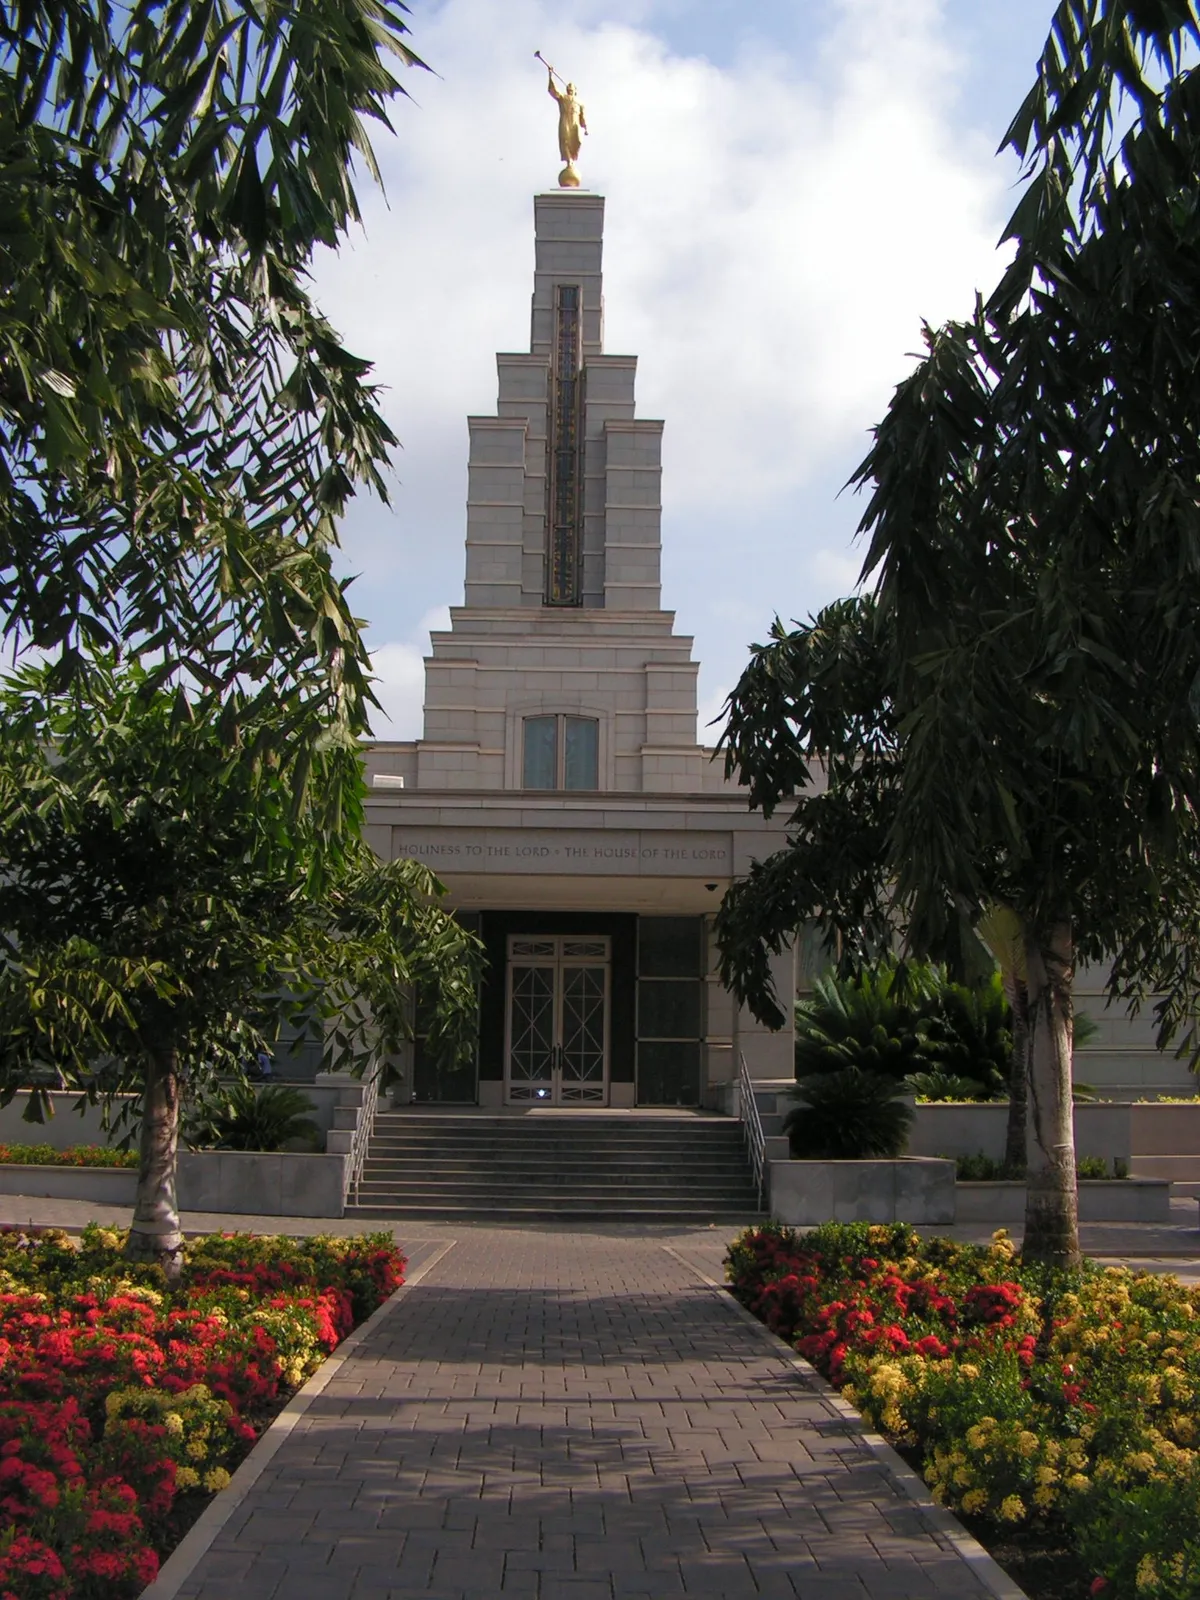
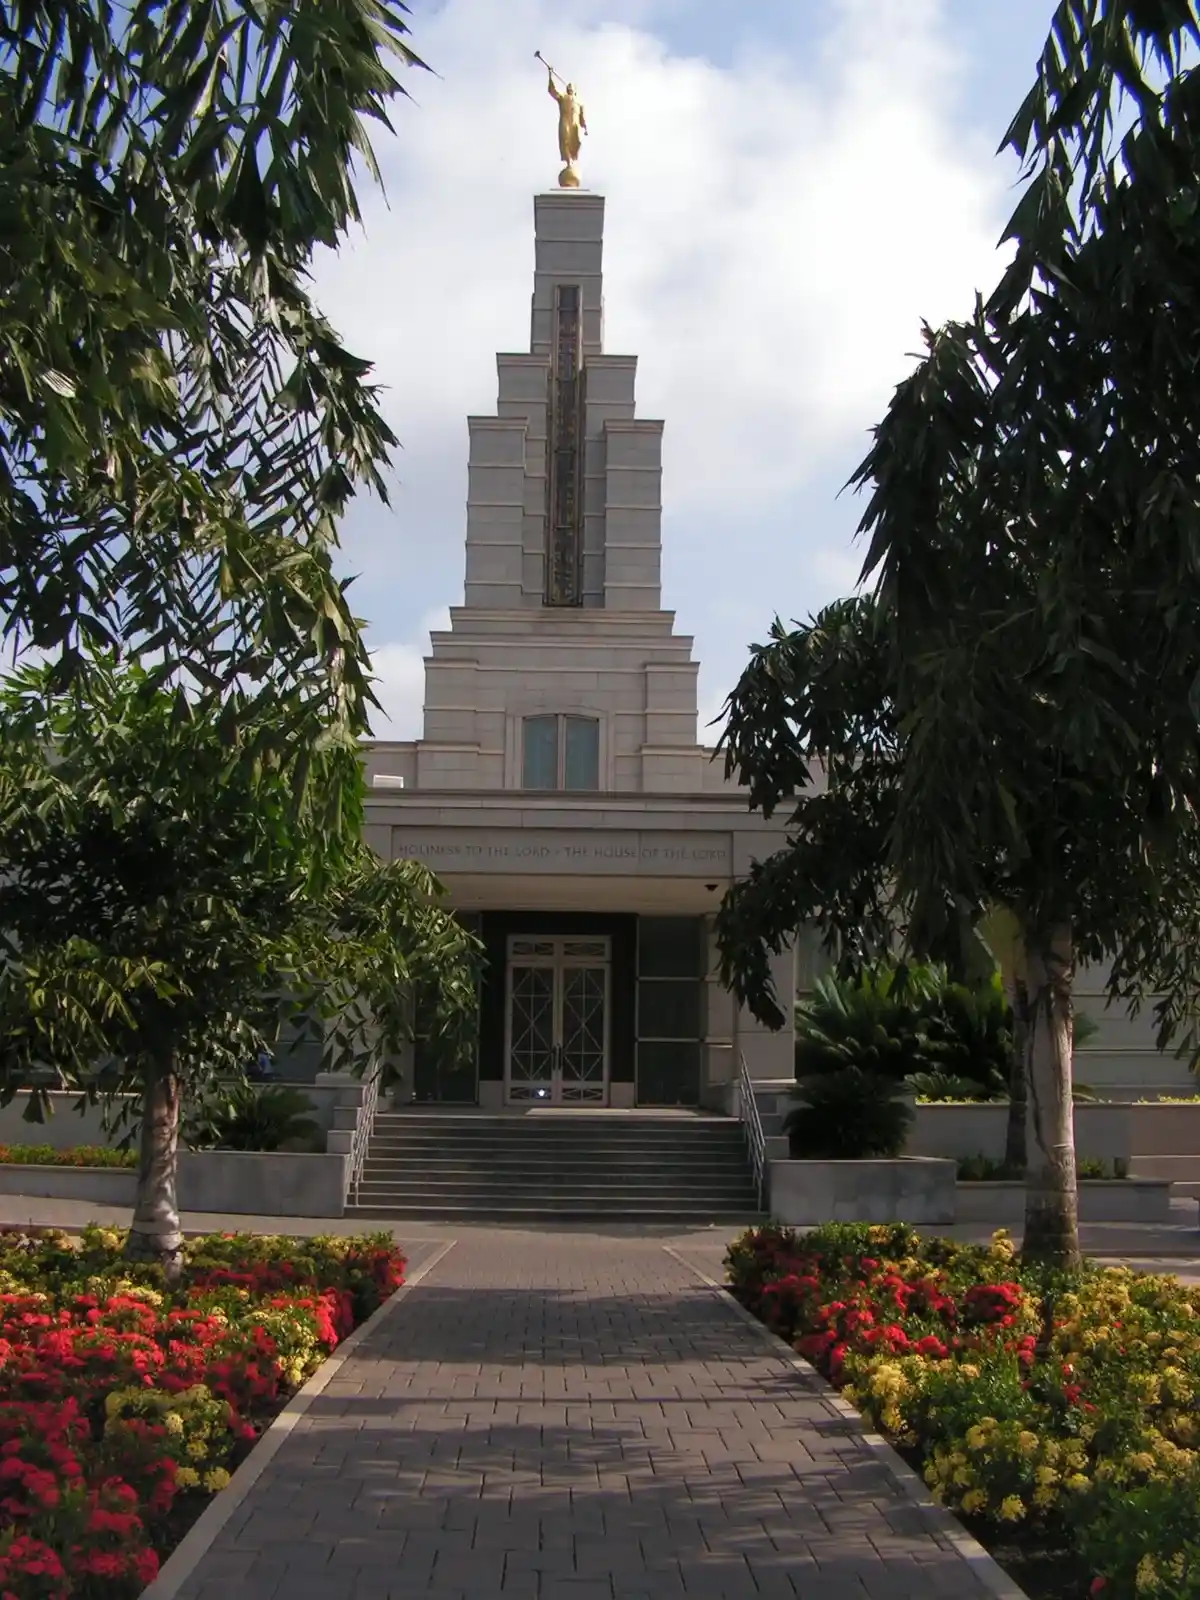
updated

diff --git a/temples.html b/temples.html
@@ -43,15 +43,15 @@
                 <figcaption>A picture of the Nigeria Aba Temple</figcaption>
             </figure>
             <figure class="temple-card">
-                <img src="images/abidjan_ivory_coast_temple_exterior_4.webp" alt="Ivory Coast  Abidjan Temple">
+                <img src="images/abidjan_4.webp" alt="Ivory Coast  Abidjan Temple">
                 <figcaption>A picture of the Ivory Coast  Abidjan Temple</figcaption>
             </figure>
             <figure class="temple-card">
-                <img src="images/abidjan_ivory_coast_temple_interior_celestial_2.webp" alt="Ivory Coast  Abidjan Temple">
+                <img src="images/abidjan_2.webp" alt="Ivory Coast  Abidjan Temple">
                 <figcaption>A picture of the Ivory Coast  Abidjan Temple</figcaption>
             </figure>
             <figure class="temple-card">
-                <img src="images/abidjan_ivory_coast_temple_interior_grand_3.webp" alt="Ivory Coast  Abidjan Temple">
+                <img src="images/abidjan_3.webp" alt="Ivory Coast  Abidjan Temple">
                 <figcaption>A picture of the Ivory Coast  Abidjan Temple</figcaption>
             </figure>
             <figure class="temple-card">

diff --git a/styles/temples.css b/styles/temples.css
@@ -37,6 +37,7 @@ main {
 }
 
 nav{
+    display:flex;
     max-width: 700px;
     margin: 1rem auto;
 }